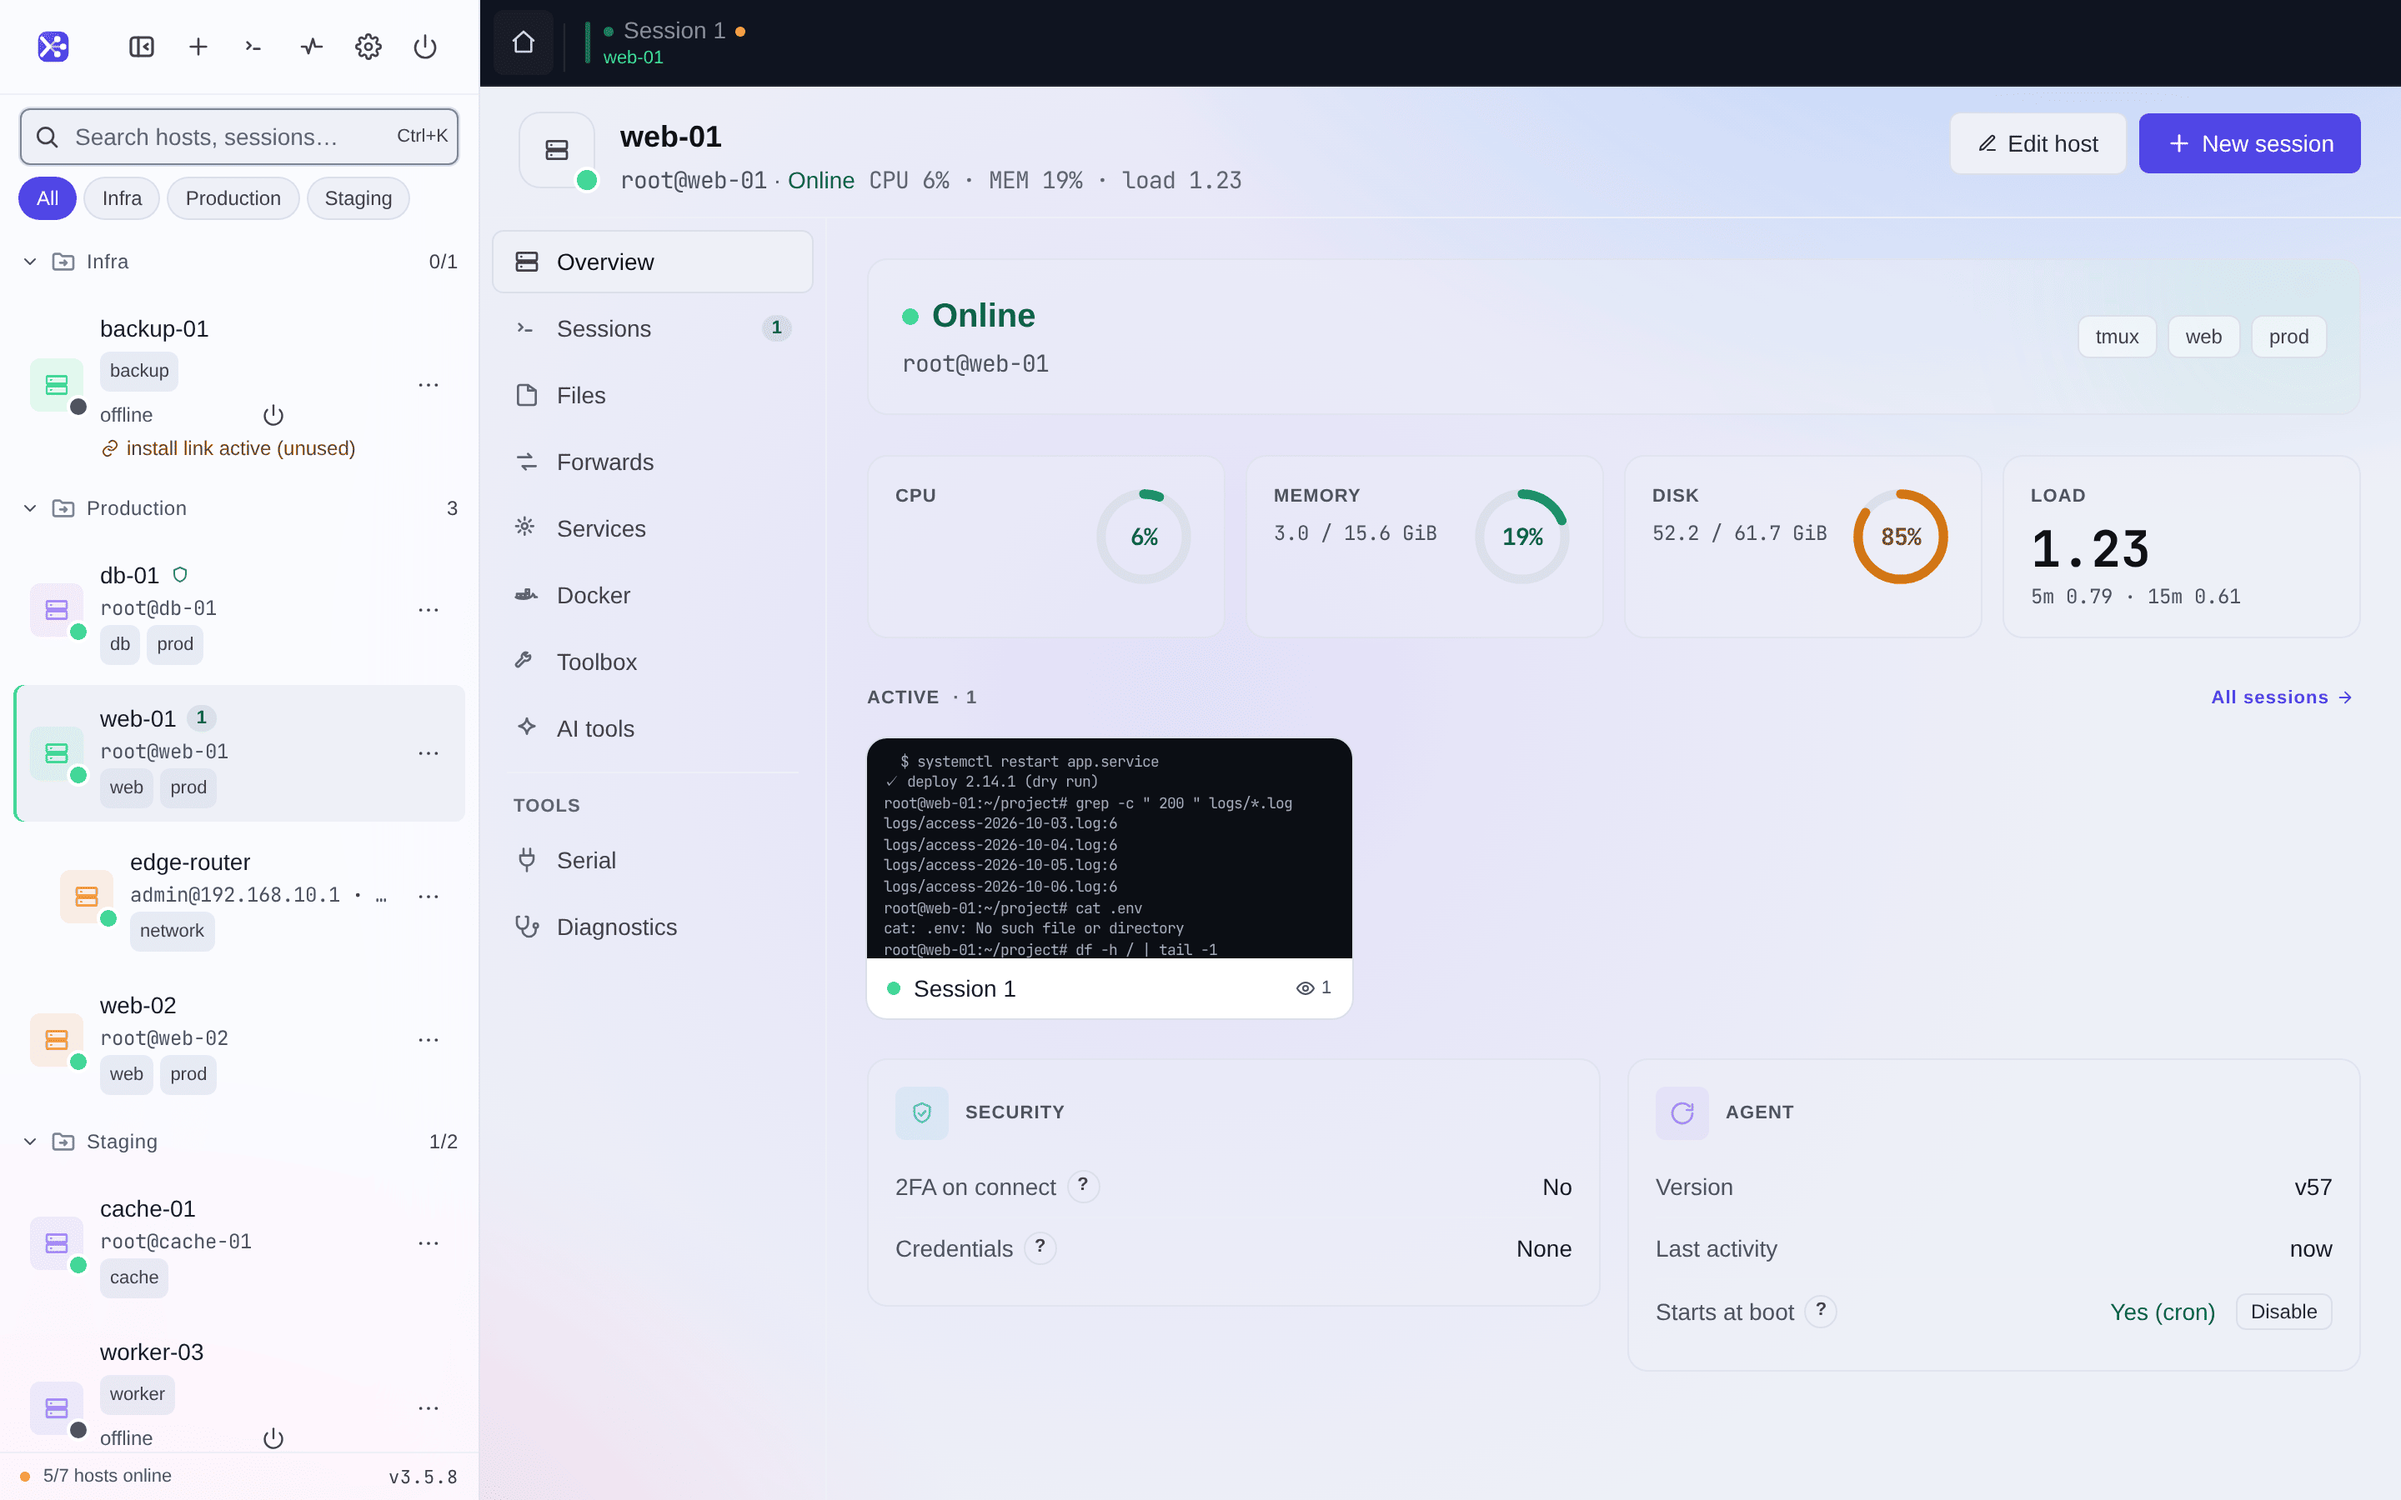
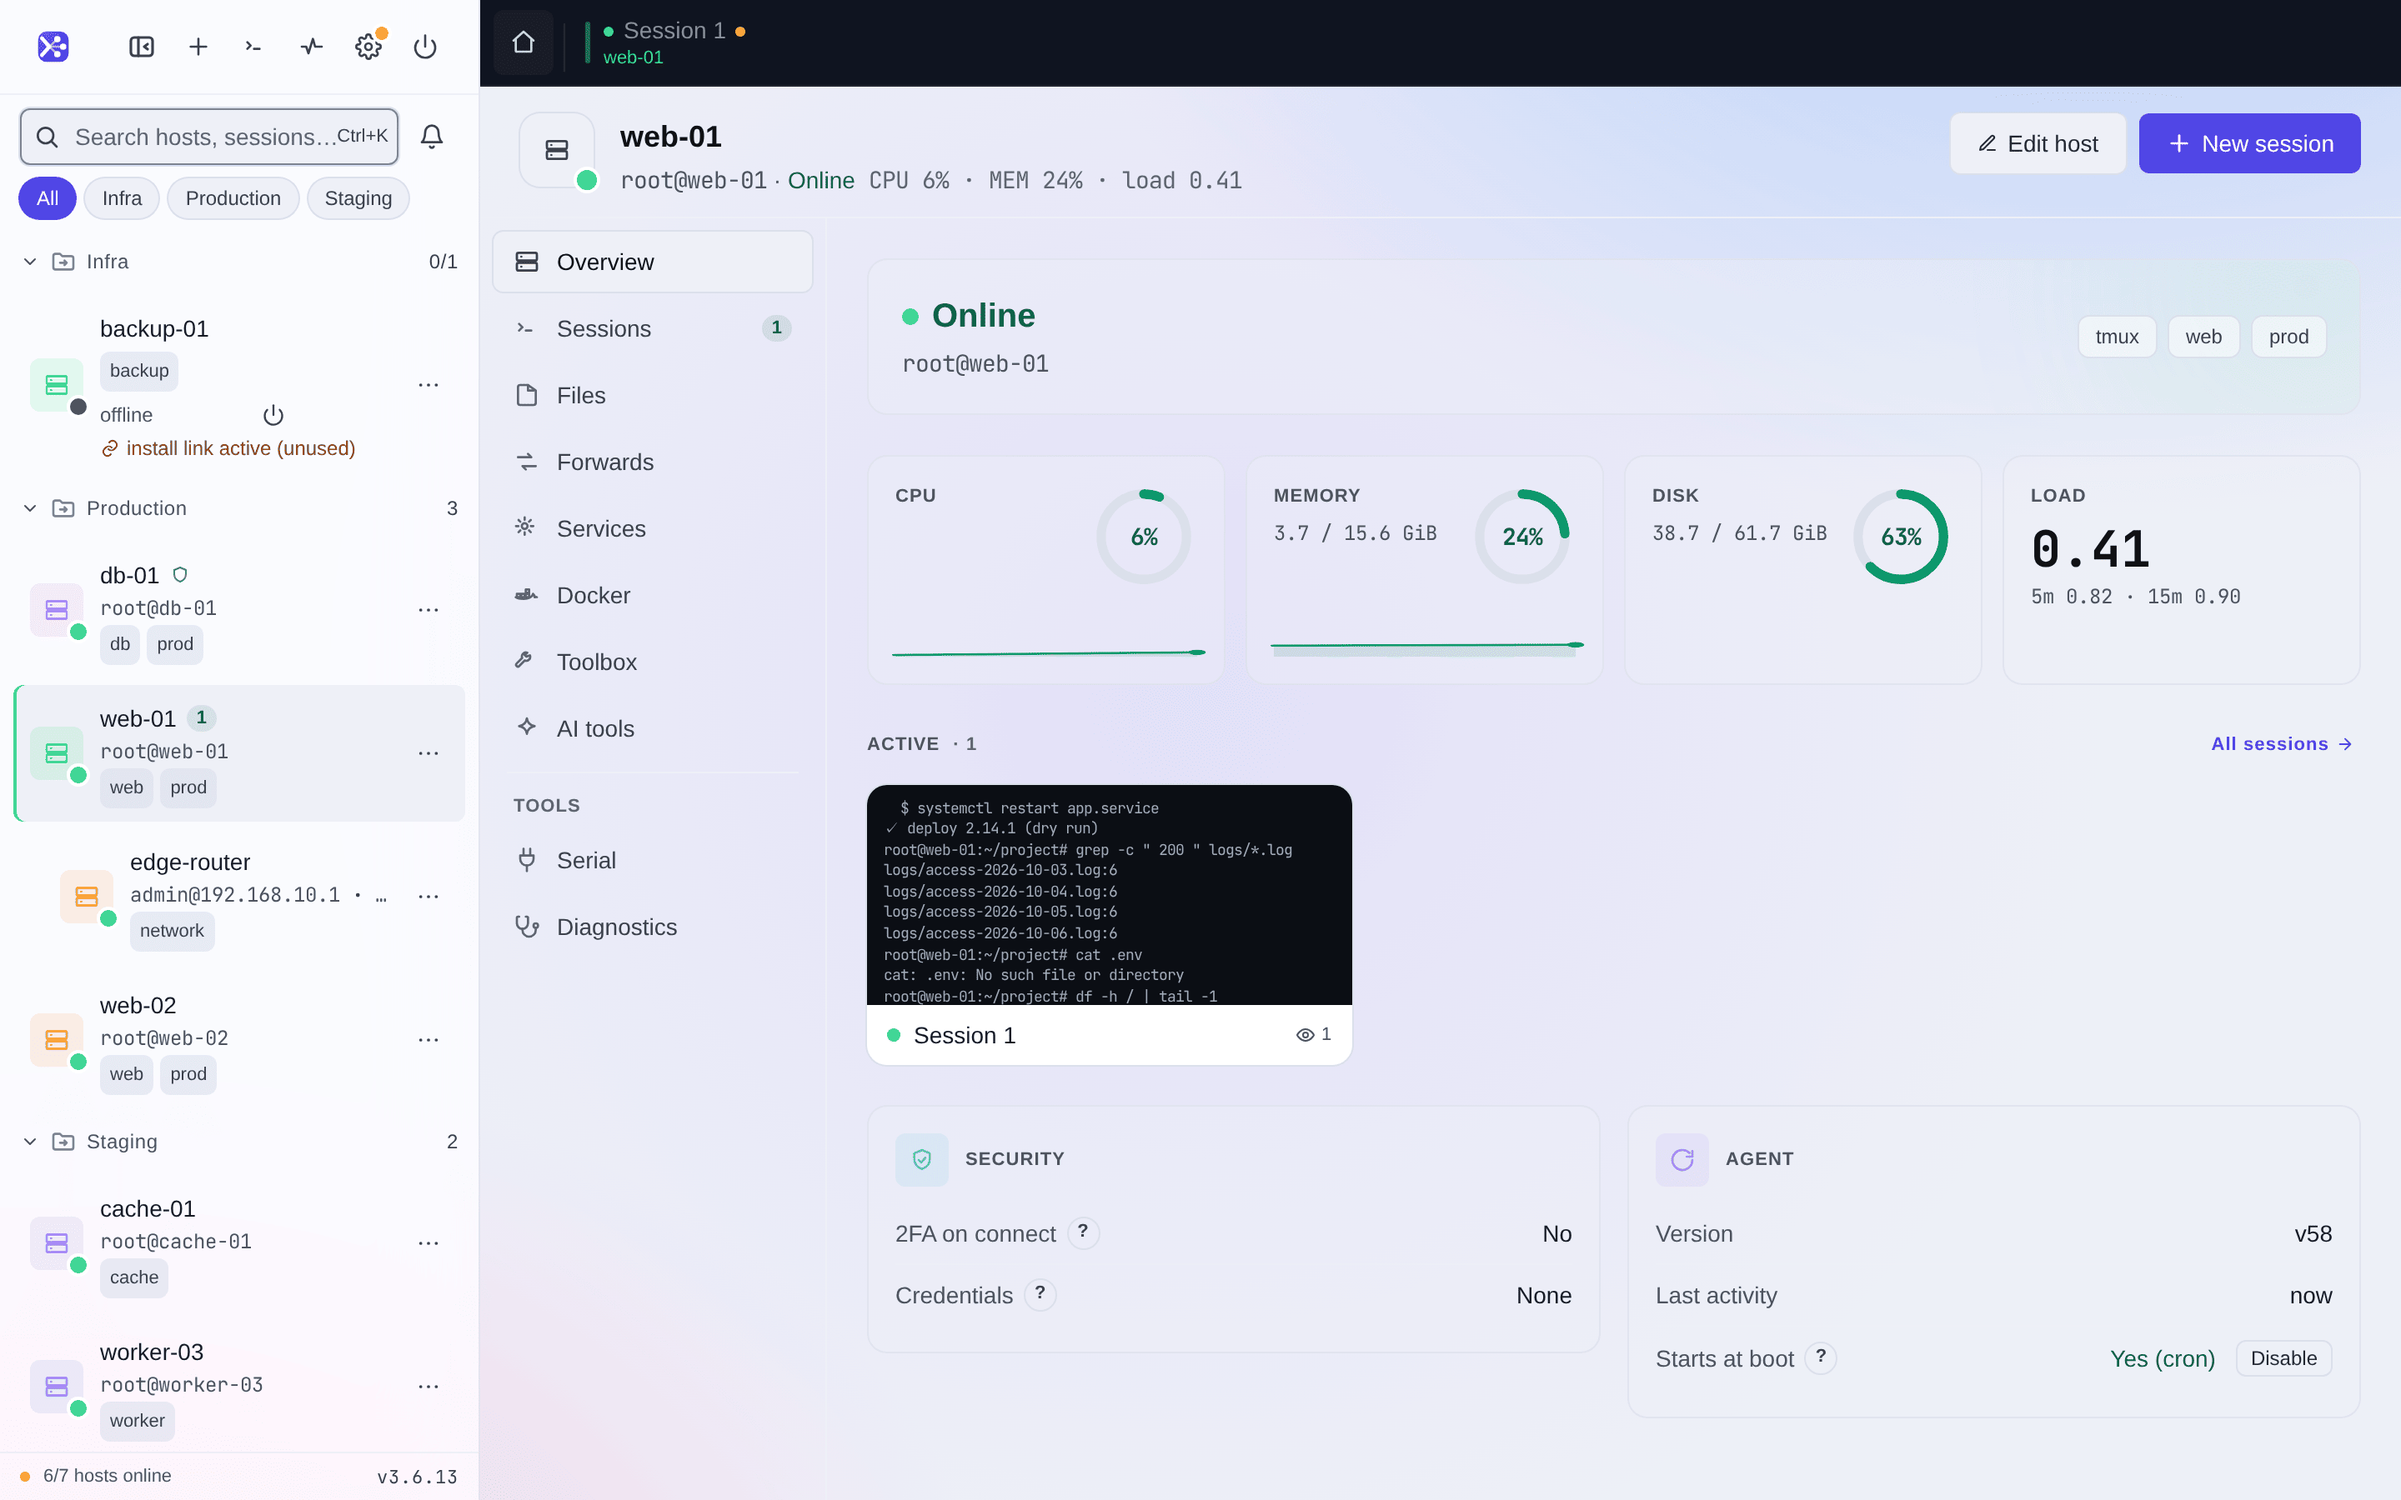
Docs: README screenshots regenerated for 3.6.13 (+ split view, themes)
All 16 existing captures redone on v3.6.13, plus two new screens in the README gallery
(dark + light): 09-split (a three-pane split view, 3.6.12) and 10-themes (Settings ->
Appearance with the app in the macOS-style theme, 3.6.4).

Capture script fixes for what broke since 3.5.x:
- shots.mjs: the canvas-addon block made main.tsx's vite:preloadError handler reload the
  page mid-run (the app came back on the session route, so every later goHome failed) —
  the reload throttle key is set in the future; the editor is closed with its own Close
  button (Escape stays in Monaco); setTheme speaks the 3.6.4 theme model (family:mode,
  wt-termscheme); in-app alerts raised by the run itself are marked read before each
  capture; Sign-in & 2FA opens over the dashboard; Run on hosts skips db-01 (2FA host,
  password-only step-up is gone since 3.5.13) and uses worker-03; files blur the focused
  checkbox; a failed step saves _failed-<step>.png; DBG=1 logs navigations/console errors.
- seed.py / run.sh: worker-03 online with a RELEASE file; procps for top in the split view.

diff --git a/scripts/screenshots/seed.py b/scripts/screenshots/seed.py
@@ -44,7 +44,7 @@ FLEET = [
     ("web-02", "Production", "web prod", True),
     ("db-01", "Production", "db prod", True),
     ("cache-01", "Staging", "cache", True),
-    ("worker-03", "Staging", "worker", False),
+    ("worker-03", "Staging", "worker", True),
     ("backup-01", "Infra", "backup", False),
 ]
 

diff --git a/README.md b/README.md
@@ -66,7 +66,7 @@ flowchart TB
 
 ## Screenshots
 
-Fictional demo fleet, captured on v3.5.8 with
+Fictional demo fleet, captured on v3.6.13 with
 [`scripts/screenshots/run.sh`](scripts/screenshots/run.sh). The images follow your GitHub theme
 (dark or light); the terminal itself stays dark in both.
 
@@ -82,6 +82,8 @@ Fictional demo fleet, captured on v3.5.8 with
 | <picture><source media="(prefers-color-scheme: light)" srcset="docs/screenshots/05-host-light.png"><img alt="Host page: metrics, live session previews, security and agent status" src="docs/screenshots/05-host-dark.png"></picture> | <picture><source media="(prefers-color-scheme: light)" srcset="docs/screenshots/03-files-light.png"><img alt="Files panel next to the terminal, three files selected for a bulk action" src="docs/screenshots/03-files-dark.png"></picture> |
 | **Settings → Sign-in & 2FA** | **The editor (Monaco)** |
 | <picture><source media="(prefers-color-scheme: light)" srcset="docs/screenshots/06-security-light.png"><img alt="Settings, Sign-in &amp; 2FA tab: connected devices, passkeys, 2FA" src="docs/screenshots/06-security-dark.png"></picture> | <picture><source media="(prefers-color-scheme: light)" srcset="docs/screenshots/04-editor-light.png"><img alt="Monaco editor open on a shell script on the host" src="docs/screenshots/04-editor-dark.png"></picture> |
+| **A split view: three hosts side by side** | **OS-style themes (here: macOS style)** |
+| <picture><source media="(prefers-color-scheme: light)" srcset="docs/screenshots/09-split-light.png"><img alt="Split view with three panes: top running on web-01 in the big left pane, a deploy dry run on web-02 and memory and disk on cache-01 stacked on the right" src="docs/screenshots/09-split-dark.png"></picture> | <picture><source media="(prefers-color-scheme: light)" srcset="docs/screenshots/10-themes-light.png"><img alt="Settings, Appearance tab with the app in the macOS-style theme: WebTerm, macOS, Windows 11, GNOME and KDE Plasma styles, light, dark or auto mode, terminal color schemes" src="docs/screenshots/10-themes-dark.png"></picture> |
 
 <p align="center"><img alt="A session on a phone, with the two-row key bar" src="docs/screenshots/08-phone-dark.png" width="260"></p>
 
